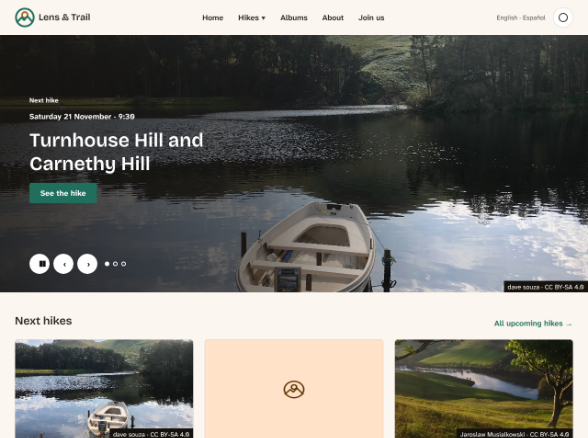
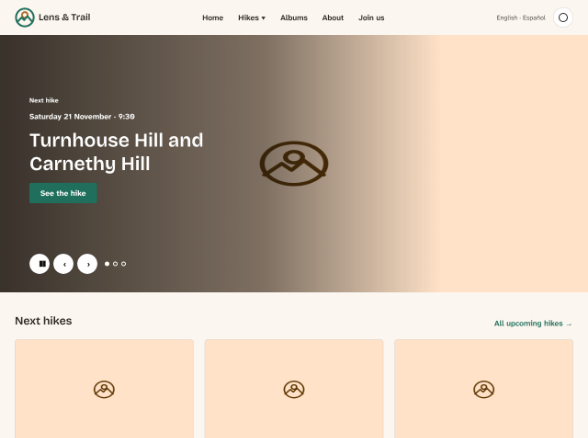
Chapter 5: a theme screenshot without Book 1's photos, and "rebuild the cache"
The screenshot is made from the front-page board with the default photo
in place of the photos, so every file in the theme can be GPL. A box
explains why. The text says "rebuild the cache", naming Clear all
caches only as the button's label.

diff --git a/manuscript/05-generating-the-core-theme.md b/manuscript/05-generating-the-core-theme.md
@@ -24,7 +24,7 @@ ddev exec vendor/bin/dr generate-theme lens_trail --name "Lens & Trail" --descri
 Run it in the core site's folder. Piece by piece:
 
 - `ddev exec` runs the command inside the site's web container, where the right PHP version is.
-- `vendor/bin/dr` is Drupal's own command-line tool. It's not Drush: it's a small tool that comes with core, for a handful of jobs such as installing a site, clearing the cache, and generating a theme. Run `ddev exec vendor/bin/dr list` to see them all.
+- `vendor/bin/dr` is Drupal's own command-line tool. It's not Drush: it's a small tool that comes with core, for a handful of jobs such as installing a site, rebuilding the cache, and generating a theme. Run `ddev exec vendor/bin/dr list` to see them all.
 - `generate-theme lens_trail` makes a theme with the machine name `lens_trail`. A machine name is the name Drupal uses in code and in file names: lowercase letters, numbers and underscores, and it can't start with a number. Choose it carefully, because changing it later means renaming every file and everything that refers to it.
 - `--name` and `--description` are what the **Appearance** page shows.
 - `--path web/themes/custom` is where the theme goes. Themes you write live in `themes/custom`; themes you download from drupal.org go in `themes/contrib`, where Composer puts them.
@@ -149,11 +149,13 @@ cp design/logo.svg web/themes/custom/lens_trail/logo.svg
 
 (Run it from wherever you keep the book's files, or download `design/logo.svg` from the book's repository.) In Book 1, the club uploaded its logo in Olivero's settings, so Olivero had it and the new theme didn't. A logo in the theme's folder is the theme's default, and it's in version control with the rest of the theme, so it's the better place for a logo that's part of the design. Chapter 3 redrew the mark on a cream disc of its own, so it shows on light pages, on dark pages, and in forced colors mode.
 
-**The screenshot.** The screenshot is a PNG, 588 by 438 pixels, named `screenshot.png`. Ours is the top of the front-page wireframe from Chapter 4, `design/wireframes/front-page-wide.png`, scaled down. Any image editor can do it: crop the wireframe to the top 1280 by 954 pixels, and scale it to 588 by 438. Or use ours, from `code/chapter05/steps/02-logo/core/lens_trail/screenshot.png`.
+**The screenshot.** The screenshot is a PNG, 588 by 438 pixels, named `screenshot.png`. Ours is the top of the club's front page from Chapter 4's wireframes, scaled down, with one change: the photos are replaced by the club's default photo, the logo on sand that a hike without a photo gets. Use ours, from `code/chapter05/steps/02-logo/core/lens_trail/screenshot.png`, or make your own in Penpot: duplicate the *Front page, wide* board, give each photo the `Default photo` image fill (as the North Berwick card has), hide the photo credits, export the board, crop the top 1280 by 954 pixels, and scale it to 588 by 438.
 
 The screenshot is the theme as it *will* look, not as it looks today, and that's fine: it's what the theme is for.
 
-![The Installed themes part of the Appearance page: Lens & Trail 1.0.0 (default theme), with a screenshot of the club's front page as designed in Chapter 4, with the hero photo of a boat on a loch and Next hikes below; under it, Default Admin](images/05-appearance.png)
+> **Why not the photos?** Licenses. The theme's code is licensed under the GPL, version 2 or later, like Drupal itself, and so is every file in the theme's folder. Book 1's photos were taken by other people, who shared them under CC BY-SA, and only they can change that license. CC BY-SA 4.0 can be combined with the GPL version 3, but not version 2, so a screenshot made from those photos couldn't be licensed like the rest of the theme. The default photo, the layout and the logo are the club's own work, so the screenshot can be GPL like everything else. It matters most if you ever share a theme on drupal.org: its [licensing FAQ](https://www.drupal.org/about/licensing) asks that what you commit to a project is under the GPL, version 2 or later, and allows assets such as fonts and icons under other licenses only as an exception, with conditions. A theme where every file is GPL never has to ask. Before you put any image in a theme, ask who made it and under which license.
+
+![The Installed themes part of the Appearance page: Lens & Trail 1.0.0 (default theme), with a screenshot of the club's front page as designed in Chapter 4, with the default photo, the club's logo on sand, in the hero and in the hike cards; under it, Default Admin](images/05-appearance.png)
 *Figure 5.6: The theme with the club's screenshot. The logo is in the header of every page now too.*
 
 ## Fewer templates
@@ -173,7 +175,7 @@ The 21 identical ones can go. Delete these files from `web/themes/custom/lens_tr
 | `navigation` | `links`, `menu-local-action`, `pager`, `vertical-tabs` |
 | `views` | `views-view-grid`, `views-view-list`, `views-view-unformatted` |
 
-Each file name ends in `.html.twig`. Then clear the cache (**Configuration** > **Performance** > **Clear all caches**, or `ddev drush cache:rebuild`), so Drupal looks for templates again. Without a template in the theme, Drupal uses the one in the core module that defines it, which is the same markup.
+Each file name ends in `.html.twig`. Then rebuild the cache, so Drupal looks for templates again: `ddev drush cache:rebuild`, or **Configuration** > **Performance** > **Clear all caches**. Both do the same thing, and "rebuild" is the better word for it: Drupal doesn't only empty its caches, it rebuilds what it knows about the site, such as its list of templates, routes and services. Drush's command was `drush cache-clear all` until Drupal 8, when it became `cache:rebuild`; the button kept its old name. Without a template in the theme, Drupal uses the one in the core module that defines it, which is the same markup.
 
 We checked: we saved the HTML of ten of the club's pages before and after, the front page, a hike, the hikes list, an album, the login form, the Spanish front page and four more, and the only differences were the random IDs Drupal gives each request. The theme now has 60 templates.
 
@@ -307,7 +309,7 @@ Then add both files to the `base` library in `lens_trail.libraries.yml`:
 
 <!-- diff: code/chapter05/steps/03-fewer-templates/core/lens_trail/lens_trail.libraries.yml code/chapter05/steps/04-tokens/core/lens_trail/lens_trail.libraries.yml -->
 
-They're in the `base` category, so Drupal puts them before the `component` files: the tokens are defined before anything uses them, and Starterkit's component CSS can still override the base rules where it needs to. Clear the cache, and reload the front page.
+They're in the `base` category, so Drupal puts them before the `component` files: the tokens are defined before anything uses them, and Starterkit's component CSS can still override the base rules where it needs to. Rebuild the cache, and reload the front page.
 
 ![The front page with the club's tokens: a warm off-white background, the club's logo, the site name and the menu links in the club's green, dark brown text in a plain sans-serif, and big bold headings Welcome to Lens & Trail and Next hikes; the hike titles below are green links](images/05-front-tokens.png)
 *Figure 5.7: The front page with tokens.css and base.css.*

diff --git a/book/05-generating-the-core-theme.md b/book/05-generating-the-core-theme.md
@@ -22,7 +22,7 @@ ddev exec vendor/bin/dr generate-theme lens_trail --name "Lens & Trail" --descri
 Run it in the core site's folder. Piece by piece:
 
 - `ddev exec` runs the command inside the site's web container, where the right PHP version is.
-- `vendor/bin/dr` is Drupal's own command-line tool. It's not Drush: it's a small tool that comes with core, for a handful of jobs such as installing a site, clearing the cache, and generating a theme. Run `ddev exec vendor/bin/dr list` to see them all.
+- `vendor/bin/dr` is Drupal's own command-line tool. It's not Drush: it's a small tool that comes with core, for a handful of jobs such as installing a site, rebuilding the cache, and generating a theme. Run `ddev exec vendor/bin/dr list` to see them all.
 - `generate-theme lens_trail` makes a theme with the machine name `lens_trail`. A machine name is the name Drupal uses in code and in file names: lowercase letters, numbers and underscores, and it can't start with a number. Choose it carefully, because changing it later means renaming every file and everything that refers to it.
 - `--name` and `--description` are what the **Appearance** page shows.
 - `--path web/themes/custom` is where the theme goes. Themes you write live in `themes/custom`; themes you download from drupal.org go in `themes/contrib`, where Composer puts them.
@@ -259,11 +259,13 @@ cp design/logo.svg web/themes/custom/lens_trail/logo.svg
 
 (Run it from wherever you keep the book's files, or download `design/logo.svg` from the book's repository.) In Book 1, the club uploaded its logo in Olivero's settings, so Olivero had it and the new theme didn't. A logo in the theme's folder is the theme's default, and it's in version control with the rest of the theme, so it's the better place for a logo that's part of the design. Chapter 3 redrew the mark on a cream disc of its own, so it shows on light pages, on dark pages, and in forced colors mode.
 
-**The screenshot.** The screenshot is a PNG, 588 by 438 pixels, named `screenshot.png`. Ours is the top of the front-page wireframe from Chapter 4, `design/wireframes/front-page-wide.png`, scaled down. Any image editor can do it: crop the wireframe to the top 1280 by 954 pixels, and scale it to 588 by 438. Or use ours, from `code/chapter05/steps/02-logo/core/lens_trail/screenshot.png`.
+**The screenshot.** The screenshot is a PNG, 588 by 438 pixels, named `screenshot.png`. Ours is the top of the club's front page from Chapter 4's wireframes, scaled down, with one change: the photos are replaced by the club's default photo, the logo on sand that a hike without a photo gets. Use ours, from `code/chapter05/steps/02-logo/core/lens_trail/screenshot.png`, or make your own in Penpot: duplicate the *Front page, wide* board, give each photo the `Default photo` image fill (as the North Berwick card has), hide the photo credits, export the board, crop the top 1280 by 954 pixels, and scale it to 588 by 438.
 
 The screenshot is the theme as it *will* look, not as it looks today, and that's fine: it's what the theme is for.
 
-![The Installed themes part of the Appearance page: Lens & Trail 1.0.0 (default theme), with a screenshot of the club's front page as designed in Chapter 4, with the hero photo of a boat on a loch and Next hikes below; under it, Default Admin](images/05-appearance.png)
+> **Why not the photos?** Licenses. The theme's code is licensed under the GPL, version 2 or later, like Drupal itself, and so is every file in the theme's folder. Book 1's photos were taken by other people, who shared them under CC BY-SA, and only they can change that license. CC BY-SA 4.0 can be combined with the GPL version 3, but not version 2, so a screenshot made from those photos couldn't be licensed like the rest of the theme. The default photo, the layout and the logo are the club's own work, so the screenshot can be GPL like everything else. It matters most if you ever share a theme on drupal.org: its [licensing FAQ](https://www.drupal.org/about/licensing) asks that what you commit to a project is under the GPL, version 2 or later, and allows assets such as fonts and icons under other licenses only as an exception, with conditions. A theme where every file is GPL never has to ask. Before you put any image in a theme, ask who made it and under which license.
+
+![The Installed themes part of the Appearance page: Lens & Trail 1.0.0 (default theme), with a screenshot of the club's front page as designed in Chapter 4, with the default photo, the club's logo on sand, in the hero and in the hike cards; under it, Default Admin](images/05-appearance.png)
 *Figure 5.6: The theme with the club's screenshot. The logo is in the header of every page now too.*
 
 ## Fewer templates
@@ -283,7 +285,7 @@ The 21 identical ones can go. Delete these files from `web/themes/custom/lens_tr
 | `navigation` | `links`, `menu-local-action`, `pager`, `vertical-tabs` |
 | `views` | `views-view-grid`, `views-view-list`, `views-view-unformatted` |
 
-Each file name ends in `.html.twig`. Then clear the cache (**Configuration** > **Performance** > **Clear all caches**, or `ddev drush cache:rebuild`), so Drupal looks for templates again. Without a template in the theme, Drupal uses the one in the core module that defines it, which is the same markup.
+Each file name ends in `.html.twig`. Then rebuild the cache, so Drupal looks for templates again: `ddev drush cache:rebuild`, or **Configuration** > **Performance** > **Clear all caches**. Both do the same thing, and "rebuild" is the better word for it: Drupal doesn't only empty its caches, it rebuilds what it knows about the site, such as its list of templates, routes and services. Drush's command was `drush cache-clear all` until Drupal 8, when it became `cache:rebuild`; the button kept its old name. Without a template in the theme, Drupal uses the one in the core module that defines it, which is the same markup.
 
 We checked: we saved the HTML of ten of the club's pages before and after, the front page, a hike, the hikes list, an album, the login form, the Spanish front page and four more, and the only differences were the random IDs Drupal gives each request. The theme now has 60 templates.
 
@@ -755,7 +757,7 @@ Then add both files to the `base` library in `lens_trail.libraries.yml`:
          weight: -10
 ```
 
-They're in the `base` category, so Drupal puts them before the `component` files: the tokens are defined before anything uses them, and Starterkit's component CSS can still override the base rules where it needs to. Clear the cache, and reload the front page.
+They're in the `base` category, so Drupal puts them before the `component` files: the tokens are defined before anything uses them, and Starterkit's component CSS can still override the base rules where it needs to. Rebuild the cache, and reload the front page.
 
 ![The front page with the club's tokens: a warm off-white background, the club's logo, the site name and the menu links in the club's green, dark brown text in a plain sans-serif, and big bold headings Welcome to Lens & Trail and Next hikes; the hike titles below are green links](images/05-front-tokens.png)
 *Figure 5.7: The front page with tokens.css and base.css.*

diff --git a/PROJECT-LOG.md b/PROJECT-LOG.md
@@ -100,7 +100,8 @@ What each chapter adds to the two themes, so later chapters and exercises don't 
 
 ## Backlog
 
-- **The theme screenshot's license** (Chapter 5): `lens_trail/screenshot.png` is the front-page wireframe, with Book 1's photos (dave souza, Jarosław Musiałkowski, CC BY-SA 4.0). The theme's code is GPL-2.0-or-later; CC BY-SA 4.0 is one-way compatible with GPLv3 only. Decide: keep it (it's a picture in the theme folder, credited), make a screenshot without the photos (the default photo in their place), or say in the README how it's licensed.
+- ~~**The theme screenshot's license**~~ Done (the author chose option b, 2026-11-08: "licenses are really important"): `screenshot.png` is now made from a temporary copy of the front-page board with the `Default photo` image fill and the credits hidden (copy deleted afterward), so it's all the book's own work and GPL like the theme; the chapter has a "Why not the photos?" box.
+- **Cache wording** (the author, 2026-11-08): say "rebuild the cache" (`cache:rebuild`); name the button **Clear all caches** only as its label.
 - **`use-step.sh` and blocks**: a step can't carry block placements (they're site configuration). Chapter 5's eight moved blocks are moved by a script on the test site. Consider a `tools/` helper that applies a chapter's block placements, so `setup.sh` + `use-step.sh` reproduce a chapter's screenshots.
 - **Push Book 1's `chore/export-site-recipe`, then test as a reader**: the pinned commit is only on the author's machine, so a fresh clone stops with "has no commit 223b3ca" (tested 2026-11-07: the clone and the message work). After the push, run `tools/setup.sh` from a fresh clone in an empty folder (with the authors' sites' DDEV project names free, or on another machine).
 - **Pin Book 1 after its merge**: `data/book1.yml` points at `223b3ca` on Book 1's `chore/export-site-recipe`. When the author merges it, the commit stays valid; if it's rebased or squashed, put the new commit there.
